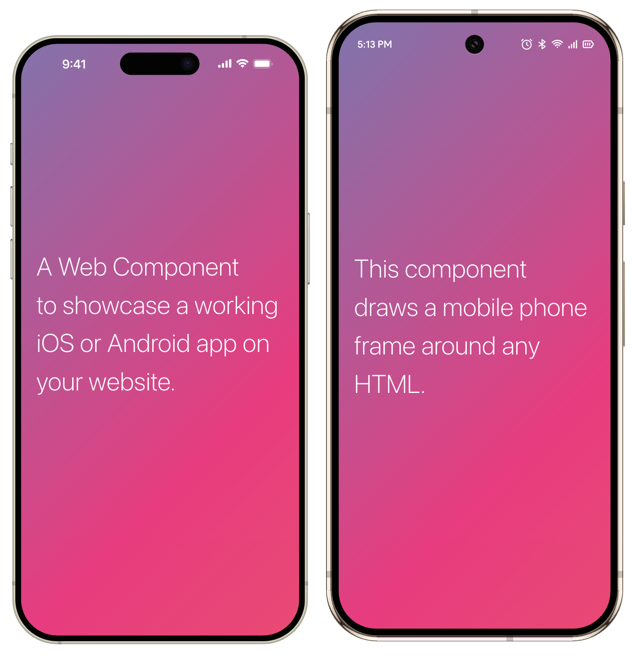
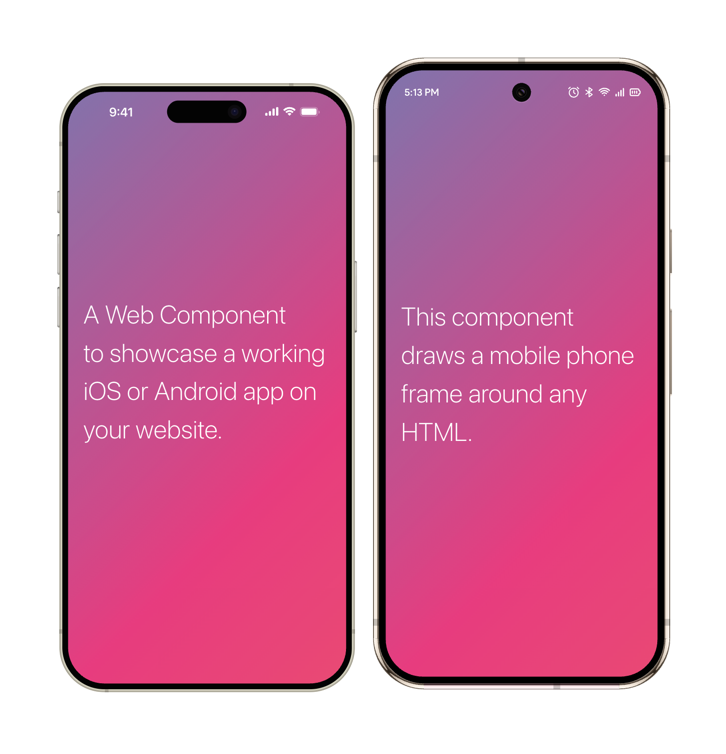
docs(readme): better-looking image

diff --git a/packages/www/index.html b/packages/www/index.html
@@ -55,7 +55,7 @@
       box-sizing: border-box;
     }
 
-    iphone-16-max {
+    .device {
       font-weight: 200;
       font-size: 1.6rem;
 
@@ -65,6 +65,10 @@
         p {
           margin: 0;
           margin-bottom: 2rem;
+
+          &:last-child {
+            margin-bottom: 0;
+          }
         }
       }
     }
@@ -188,15 +192,15 @@
             }
           }
         </style>
-        <iphone-16-max mode="dark">
+        <iphone-16-max mode="dark" class="device">
           <div class="phone-content">
             <p>Use this free<br/>Web Component<br/>to showcase a working iOS or Android app on your website.</p>
             <p style="font-size: 80%;">This text is &lt;html&gt;.</p>
           </div>
         </iphone-16-max>
-        <pixel-9-pro mode="dark">
-          <div class="phone-content">
-            <a href="https://github.com/sneas/telephone" class="button">View on GitHub</a>
+        <pixel-9-pro mode="dark" class="device">
+          <div class="phone-content" id="android-content">
+            <a  style="align-self: center; font-size: 1.1rem;" href="https://github.com/sneas/telephone" class="button">View on GitHub</a>
           </div>
         </pixel-9-pro>
       </code>

diff --git a/packages/www/src/main.ts b/packages/www/src/main.ts
@@ -1,2 +1,19 @@
 import './style.css'
 import '@sneas/telephone';
+
+let contentToRotate = `<p>This component draws a smartphone frame around any HTML.</p>`
+
+document.body.addEventListener('keydown', (e) => {
+  if (e.key !== 'f') {
+    return;
+  }
+  const androidContent = document.getElementById('android-content');
+  if (!androidContent) {
+    return;
+  }
+
+  const currentContent = androidContent.innerHTML;
+  androidContent.innerHTML = contentToRotate;
+  contentToRotate = currentContent;
+  e.preventDefault();
+}, false)
